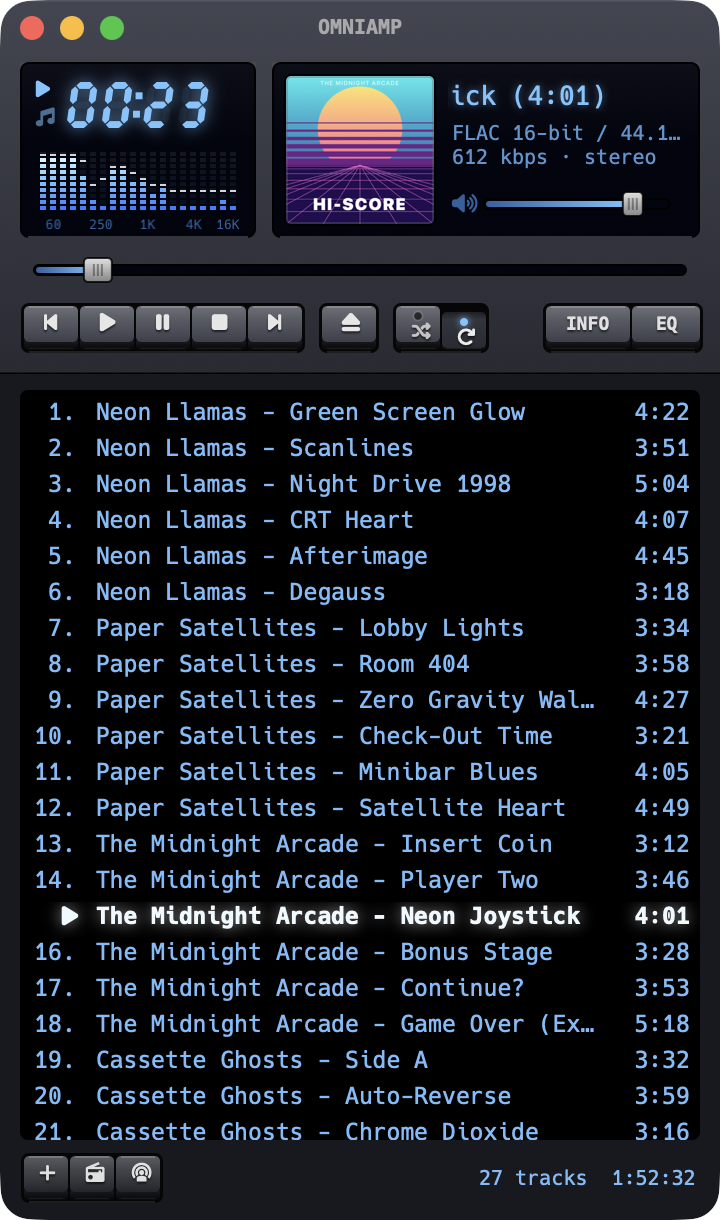
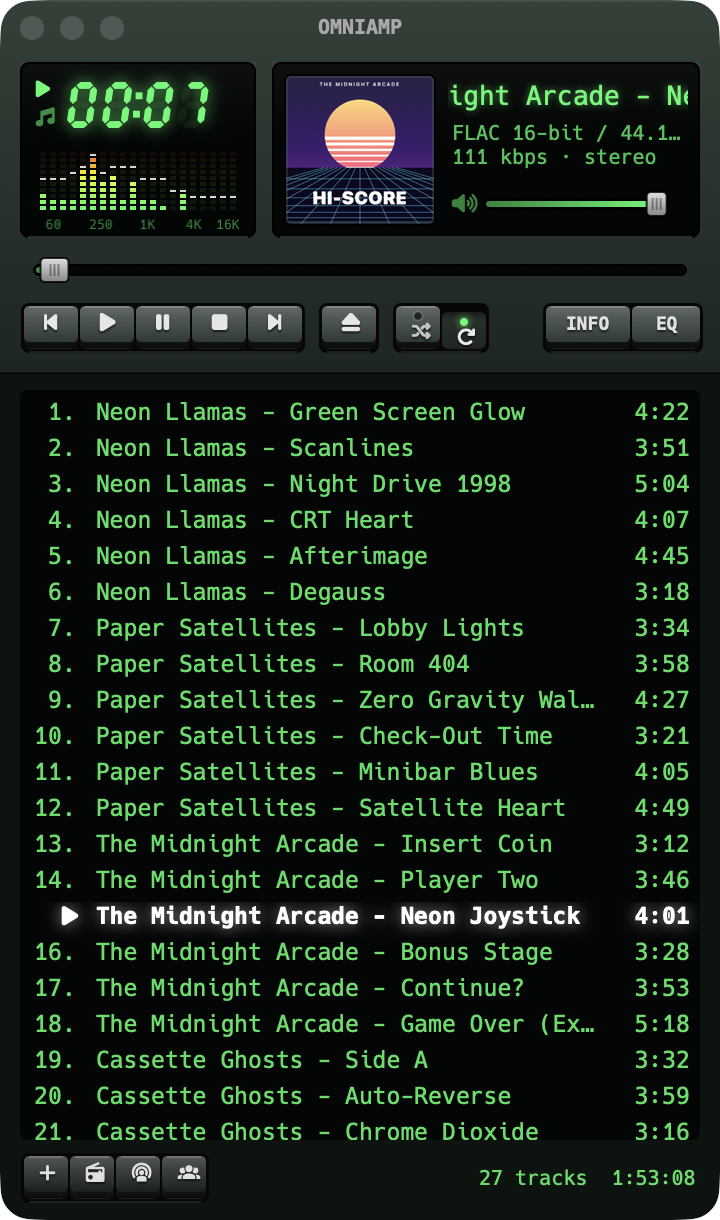
README: a Music Library section (artist pages, shows and bootlegs, stats, listening) and new screenshots of every window with the themes' finishes
The player shots use a regenerated fictional playlist again; the library shots show a real collection. Test hooks for them: OMNIAMP_PLAY=<row> plays a playlist row at launch, OMNIAMP_RADIO=favorites opens the radio on Favorites.

diff --git a/Sources/OmniAmp/App/AppDelegate.swift b/Sources/OmniAmp/App/AppDelegate.swift
@@ -54,6 +54,10 @@ final class AppDelegate: NSObject, NSApplicationDelegate, NSMenuItemValidation {
         // Test hook: OMNIAMP_SETTINGS=1 opens the Settings window at launch.
         if ProcessInfo.processInfo.environment["OMNIAMP_SETTINGS"] != nil { showSettings(nil) }
         if ProcessInfo.processInfo.environment["OMNIAMP_ABOUT"] != nil { showAbout(nil) }
+        // Test hook: OMNIAMP_PLAY=<row> plays that playlist row (from 1) at launch, e.g. for screenshots.
+        if let row = ProcessInfo.processInfo.environment["OMNIAMP_PLAY"].flatMap(Int.init), row > 0 {
+            DispatchQueue.main.asyncAfter(deadline: .now() + 0.5) { [weak self] in self?.controller.play(index: row - 1) }
+        }
         if ProcessInfo.processInfo.environment["OMNIAMP_RADIO"] != nil { showRadio(nil) }
         if ProcessInfo.processInfo.environment["OMNIAMP_PODCASTS"] != nil { showPodcasts(nil) }
         if ProcessInfo.processInfo.environment["OMNIAMP_LIBRARY"] != nil { showLibrary(nil) }

diff --git a/Sources/OmniAmp/Radio/RadioWindow.swift b/Sources/OmniAmp/Radio/RadioWindow.swift
@@ -54,6 +54,7 @@ final class RadioWindowController: NSWindowController, NSWindowDelegate, NSTable
             genre.selectItem(at: st.genre)
             country.selectItem(at: st.country)
         }
+        if ProcessInfo.processInfo.environment["OMNIAMP_RADIO"] == "favorites" { showingFavorites = true }   // test hook
         load()
     }
     required init?(coder: NSCoder) { fatalError() }
